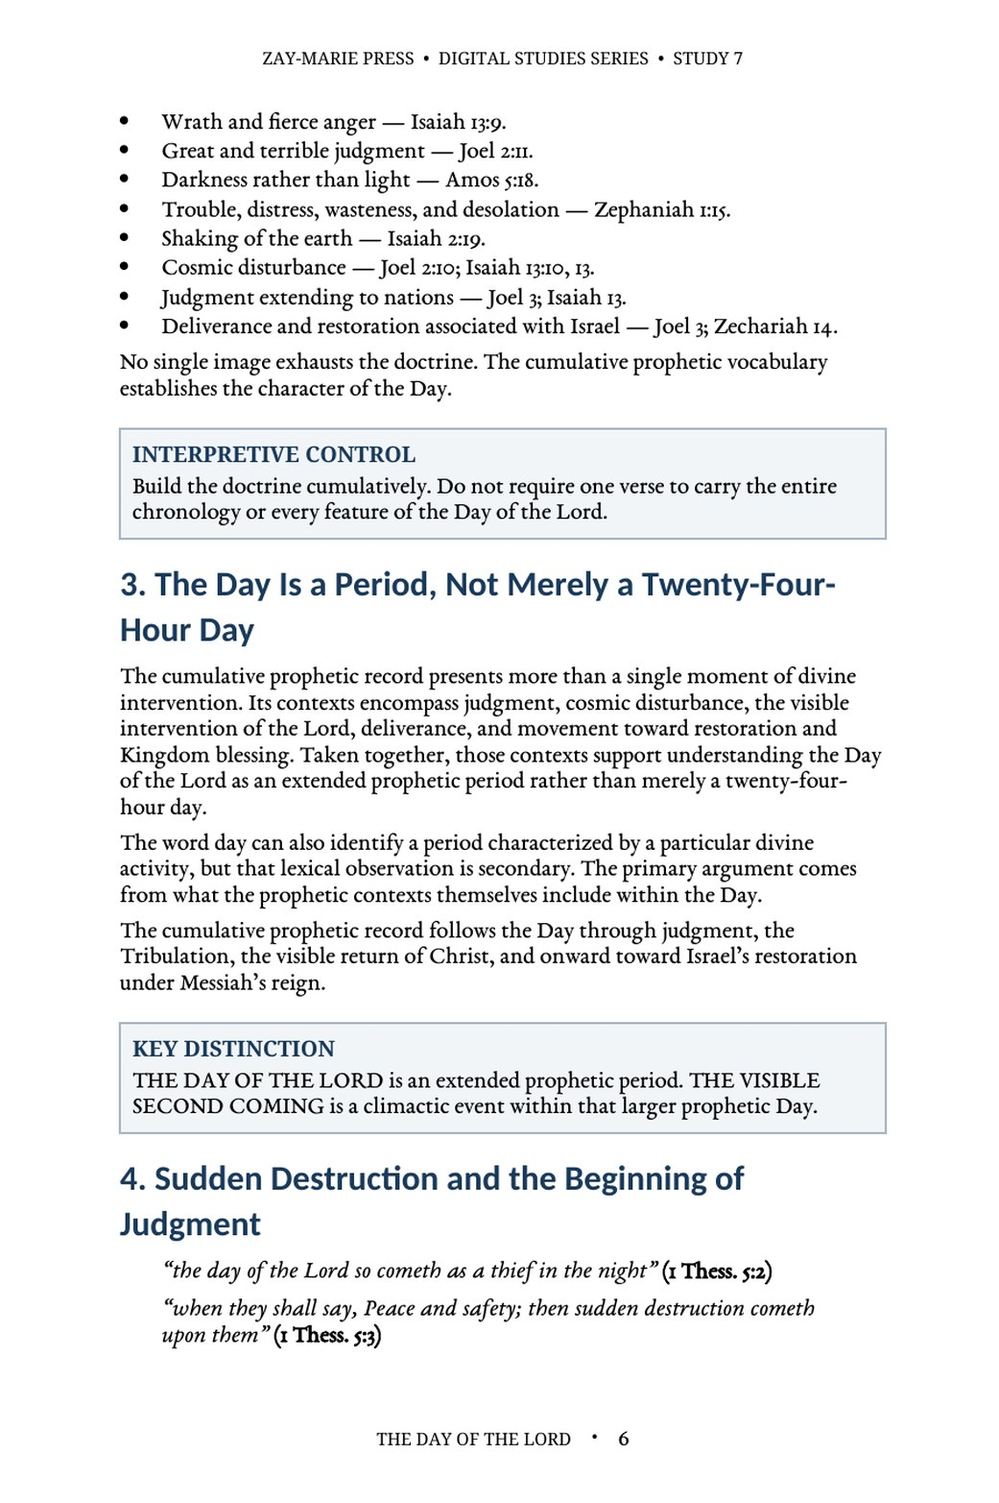
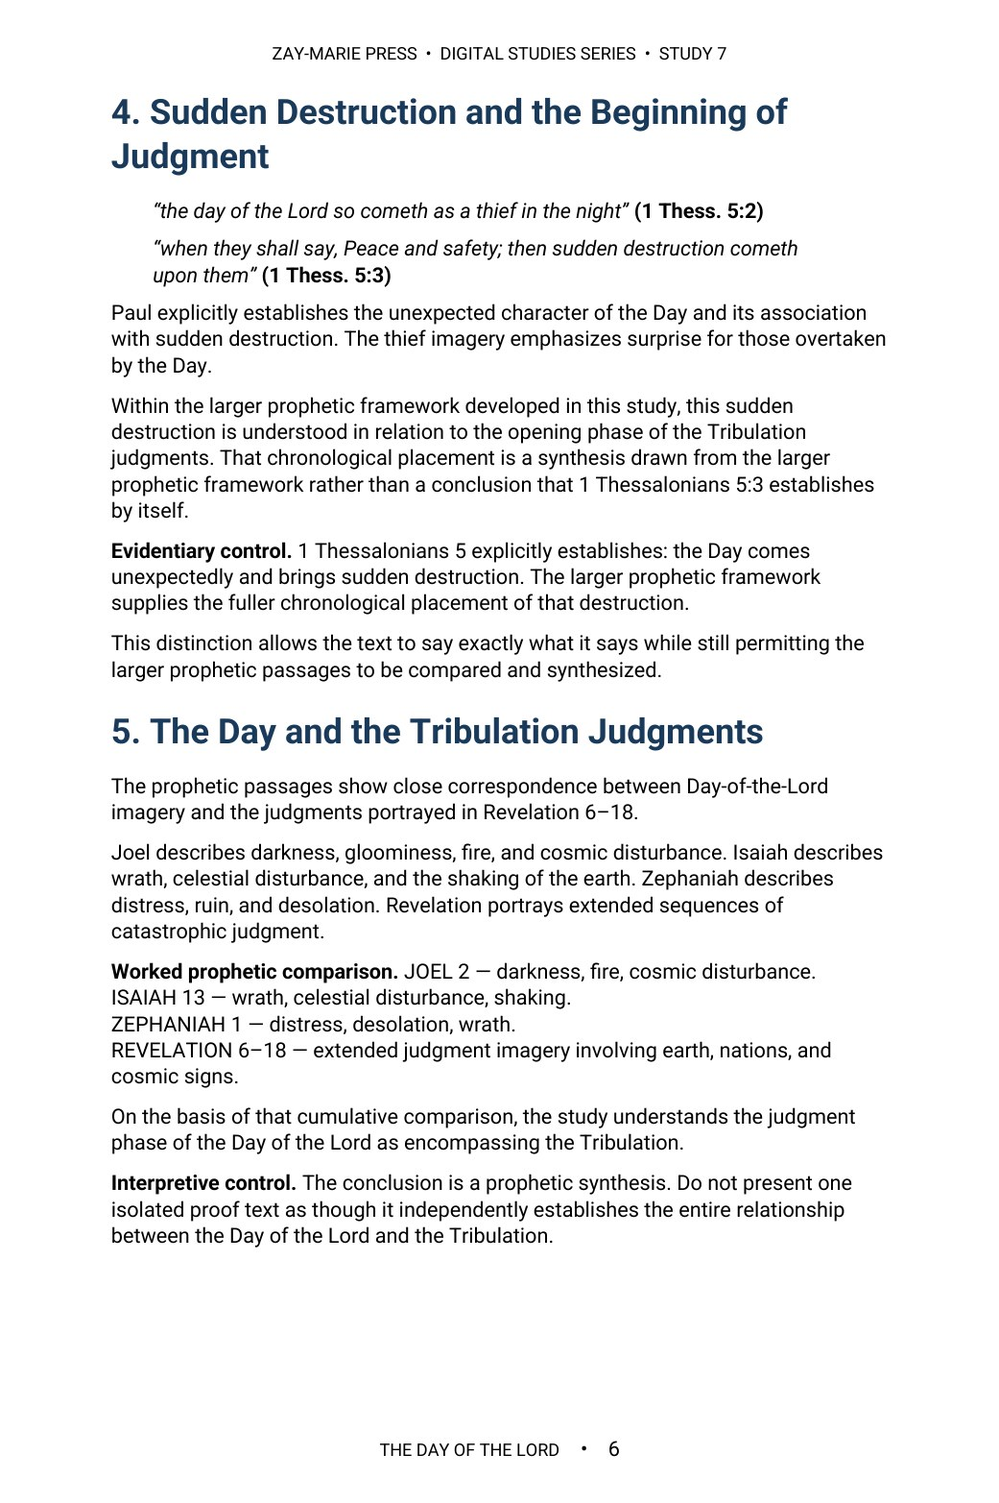
Study 7: Roboto rebuild to Master Standard v1.30; 16 pages; preview strip re-cut; tracker v1.31
Claude-Session: https://claude.ai/code/session_01TLNFW47XCW6YAMUxScR3v4

Changed region(s): [[0.0922, 0.0307, 0.8915, 0.9201], [0.3689, 0.9508, 0.5841, 0.9815], [0.8607, 0.6748, 0.8915, 0.7054]]

diff --git a/study-07-the-day-of-the-lord.html b/study-07-the-day-of-the-lord.html
@@ -14,6 +14,6 @@
 <section class="detail-section soft"><div class="wrap"><div class="eyebrow">WHAT YOU’LL STUDY</div><h2>Keep the Day and the Hope Distinct</h2><div class="study-points"><div class="study-point"><h3>The Day Begins in Prophecy</h3><p>Establish its prophetic vocabulary, purpose, and extended character.</p></div><div class="study-point"><h3>Judgment, Wrath, and Return</h3><p>Follow the Day through judgment to its visible climax in Christ’s return.</p></div><div class="study-point"><h3>Israel’s Restoration and Kingdom Hope</h3><p>See why judgment belongs within Israel’s prophetic future and restoration.</p></div><div class="study-point"><h3>Why Paul Teaches the Body About the Day</h3><p>Learn how a Pauline epistle can address a prophetic subject without redefining its setting.</p></div><div class="study-point"><h3>THEY and YOU</h3><p>Work through Paul’s contrast in 1 Thessalonians 5 between those overtaken by the Day and believers identified differently.</p></div><div class="study-point"><h3>The Body’s Gathering and Hope</h3><p>Keep 1 Thessalonians 4 distinct from the Day of the Lord in chapter 5.</p></div></div></div></section>
 <section class="detail-section cream"><div class="wrap"><div class="eyebrow">KEY SCRIPTURES</div><h2>Examine the Passages for Yourself</h2><div class="scripture-grid"><div class="scripture-card"><h3>Joel 2:1–31</h3><p>Provides the prophetic vocabulary of darkness, wrath, and the Day’s intervention.</p></div><div class="scripture-card"><h3>Isaiah 13:6–13</h3><p>Associates the Day with divine judgment and cosmic disturbance.</p></div><div class="scripture-card"><h3>Zephaniah 1:14–18</h3><p>Describes the Day as a period of wrath, distress, and devastation.</p></div><div class="scripture-card"><h3>Zechariah 14:1–9</h3><p>Connects the Day with the Lord’s visible intervention and Kingdom reign.</p></div><div class="scripture-card"><h3>1 Thessalonians 4:13–18</h3><p>Establishes the Body’s gathering to Christ and enduring relationship with Him.</p></div><div class="scripture-card"><h3>1 Thessalonians 5:1–11</h3><p>Places the Day of the Lord beside Paul’s THEY/YOU distinction and assurance concerning wrath.</p></div><div class="scripture-card"><h3>2 Thessalonians 2:1–12</h3><p>Addresses our gathering and the prophetic Day without forcing a complete chronology.</p></div><div class="scripture-card"><h3>Revelation 6–19</h3><p>Provides the broader judgment context leading toward Christ’s visible return.</p></div></div></div></section>
 <section class="detail-section"><div class="wrap"><div class="eyebrow">FROM THE STUDY</div><h2>Israel’s Prophetic Day and the Body’s Heavenly Hope</h2><div class="excerpt"><blockquote>“The Day of the Lord belongs to Israel’s prophetic future, while the Body of Christ possesses a distinct heavenly hope.”</blockquote><p>The distinction preserves both subjects: Israel’s prophetic Day of judgment, visible return, and restoration; and the Body’s gathering to Christ, enduring relationship with Him, and assurance that it is not appointed to wrath.</p></div></div></section>
-<section class="detail-section soft"><div class="wrap"><div class="eyebrow">A LOOK INSIDE</div><h2>Preview the Study Before You Purchase</h2><p class="preview-instruction">Click any page to enlarge it for reading.</p><div class="preview-grid"><div class="preview-card"><a class="preview-image-link" data-preview-lightbox href="assets/study-07-page-3.jpg"><img src="assets/study-07-page-3.jpg" alt="Study 7 interior preview — page 3, table of contents"/></a><div class="page-no">Page 3</div><h3>Table of Contents</h3><p>See the full structure of the study, from the introduction through the final synthesis.</p></div><div class="preview-card"><a class="preview-image-link" data-preview-lightbox href="assets/study-07-page-2.jpg"><img src="assets/study-07-page-2.jpg" alt="Study 7 interior preview — page 2, what you will learn"/></a><div class="page-no">Page 2</div><h3>What You Will Learn</h3><p>See the study’s goals, controls, and central question at a glance.</p></div><div class="preview-card"><a class="preview-image-link" data-preview-lightbox href="assets/study-07-page-6.jpg"><img src="assets/study-07-page-6.jpg" alt="Study 7 interior preview — page 6, the prophetic vocabulary of the Day of the Lord"/></a><div class="page-no">Page 6</div><h3>The Prophetic Vocabulary of the Day</h3><p>Gather the prophets’ own images of the Day before any conclusions are drawn.</p></div></div></div></section>
-<section class="detail-section"><div class="wrap"><div class="eyebrow">WHAT’S INCLUDED</div><h2>A Focused Study Built for<br/>Understanding and Teaching</h2><div class="includes-grid"><div class="include-item"><h3>17-Page In-Depth Biblical Study</h3><p>A careful biblical study of Israel’s prophetic Day and the Body’s distinct hope.</p></div><div class="include-item"><h3>15 Core Teaching Sections</h3><p>Follow the Day from prophetic warning through judgment, return, and restoration.</p></div><div class="include-item"><h3>THEY/YOU Worked Study</h3><p>Examine the contrast Paul draws in 1 Thessalonians 5.</p></div><div class="include-item"><h3>Prophetic Vocabulary Trace</h3><p>Compare the Scriptures that define the Day’s darkness, wrath, judgment, and restoration.</p></div><div class="include-item"><h3>18 Review Questions</h3><p>Test the study’s distinctions regarding the Day, wrath, gathering, and hope.</p></div><div class="include-item"><h3>Teaching Outline</h3><p>A ready framework for explaining the Day and the Body’s heavenly hope.</p></div><div class="include-item"><h3>Eight Guided Investigations</h3><p>Work directly from the prophets, Thessalonian letters, and judgment passages.</p></div><div class="include-item"><h3>Final Synthesis Exercise</h3><p>Write a complete explanation that keeps the Day and the hope distinct.</p></div></div></div></section>
-<section class="detail-section cream"><div class="wrap"><div class="final-buy"><div><div class="eyebrow">STUDY 7 · DIGITAL STUDY</div><h2>The Day of the Lord</h2><p>17-page digital PDF · For personal use</p></div><div class="final-offer"><div class="detail-price">$5.99</div><span class="detail-button pending" aria-disabled="true">Get the Study</span></div></div><a class="back-link" href="digital-studies.html">← Back to All Digital Studies</a></div></section><section class="study-method-course-bridge"><div class="wrap"><div class="study-method-course-panel"><div><div class="eyebrow">BUILD THE INTERPRETIVE METHOD</div><h2>Want More Than a Focused Study?</h2><p>Digital Studies examine particular biblical subjects and difficult passages. The 40-lesson Biblical Hermeneutics course teaches a complete, repeatable method for establishing meaning in context, determining proper assignment, and making responsible application.</p></div><a class="btn btn-primary" href="biblical-hermeneutics-course.html">BIBLICAL HERMENEUTICS COURSE</a></div></div></section></main><div class="preview-lightbox" id="preview-lightbox" role="dialog" aria-modal="true" aria-label="Enlarged study page preview"><button class="preview-lightbox-close" type="button" aria-label="Close enlarged preview">×</button><img src="" alt=""/><div class="preview-lightbox-hint">Scroll to read the full page · Press Esc or click outside the page to close</div></div><footer class="site-footer"><div class="wrap footer-grid"><div class="footer-about"><h3>Zay-Marie Press</h3><p class="footer-tagline"><em>Where the Bible Means What It Says.</em></p><p>Zay-Marie Press is a Christian theological publisher dedicated to producing doctrinally precise, carefully structured biblical resources that equip pastors, teachers, and serious students with clarity, depth, and Scripture-anchored truth.</p><p><a href="https://zaymariepress.com">zaymariepress.com</a><br/><a href="mailto:info@zaymariepress.com">info@zaymariepress.com</a></p></div><div class="footer-column"><h3>Explore</h3><div class="footer-links-stacked"><a href="books.html">Books</a><br/><a href="series.html">Series</a><br/><a href="biblical-hermeneutics-course.html">Course</a><br/><a href="digital-studies.html">Digital Studies</a><br/><a href="resources.html">Resources</a><br/><a href="bible-book-summaries.html">Bible Book Summaries</a><br/><a href="doctrinal-packets.html">Doctrinal Packets</a><br/><a href="historical-drift.html">Historical Drift</a><br/><a href="about.html">About</a><br/><a href="contact.html">Contact</a></div></div><div class="footer-column"><h3>Reader Support</h3><div class="footer-links-stacked"><a href="reader-support.html#faq">FAQ</a><br/><a href="reader-support.html#shipping-returns">Shipping &amp; Returns</a><br/><a href="reader-support.html#digital-downloads">Digital Downloads</a><br/><a href="reader-support.html#contact-support">Contact Support</a></div></div><div class="footer-column"><h3>Acts Overlap</h3><p><strong>Acts Overlap Theology Series</strong></p><p><em>Two Distinct Streams. One Overlap.</em></p><p><a href="series.html">Series Overview</a></p></div></div><div class="wrap footer-bottom">© 2026 Zay-Marie Press. All rights reserved.</div></footer><script src="site.js"></script><script>(function(){var box=document.getElementById("preview-lightbox"),img=box.querySelector("img"),close=box.querySelector(".preview-lightbox-close"),hint=box.querySelector(".preview-lightbox-hint"),hintTimer;function shut(){clearTimeout(hintTimer);box.classList.remove("open");hint.classList.remove("fade");document.body.style.overflow="";img.src=""}document.querySelectorAll("[data-preview-lightbox]").forEach(function(a){a.addEventListener("click",function(e){e.preventDefault();clearTimeout(hintTimer);img.src=a.getAttribute("href");img.alt=a.querySelector("img").alt;hint.classList.remove("fade");box.classList.add("open");document.body.style.overflow="hidden";box.scrollTop=0;hintTimer=setTimeout(function(){hint.classList.add("fade")},3000)})});close.addEventListener("click",shut);box.addEventListener("click",function(e){if(e.target===box)shut()});document.addEventListener("keydown",function(e){if(e.key==="Escape"&&box.classList.contains("open"))shut()})})();</script></body></html>
+<section class="detail-section soft"><div class="wrap"><div class="eyebrow">A LOOK INSIDE</div><h2>Preview the Study Before You Purchase</h2><p class="preview-instruction">Click any page to enlarge it for reading.</p><div class="preview-grid"><div class="preview-card"><a class="preview-image-link" data-preview-lightbox href="assets/study-07-page-2.jpg"><img src="assets/study-07-page-2.jpg" alt="Study 7 interior preview — page 2, table of contents"/></a><div class="page-no">Page 2</div><h3>Table of Contents</h3><p>See the full structure of the study, from the introduction through the final synthesis.</p></div><div class="preview-card"><a class="preview-image-link" data-preview-lightbox href="assets/study-07-page-3.jpg"><img src="assets/study-07-page-3.jpg" alt="Study 7 interior preview — page 3, what you will learn"/></a><div class="page-no">Page 3</div><h3>What You Will Learn</h3><p>See the study’s goals, controls, and central question at a glance.</p></div><div class="preview-card"><a class="preview-image-link" data-preview-lightbox href="assets/study-07-page-6.jpg"><img src="assets/study-07-page-6.jpg" alt="Study 7 interior preview — page 6, sudden destruction and the Tribulation judgments"/></a><div class="page-no">Page 6</div><h3>Sudden Destruction and Judgment</h3><p>Separate what 1 Thessalonians 5 states outright from what the larger prophetic record adds.</p></div></div></div></section>
+<section class="detail-section"><div class="wrap"><div class="eyebrow">WHAT’S INCLUDED</div><h2>A Focused Study Built for<br/>Understanding and Teaching</h2><div class="includes-grid"><div class="include-item"><h3>16-Page In-Depth Biblical Study</h3><p>A careful biblical study of Israel’s prophetic Day and the Body’s distinct hope.</p></div><div class="include-item"><h3>15 Core Teaching Sections</h3><p>Follow the Day from prophetic warning through judgment, return, and restoration.</p></div><div class="include-item"><h3>THEY/YOU Worked Study</h3><p>Examine the contrast Paul draws in 1 Thessalonians 5.</p></div><div class="include-item"><h3>Prophetic Vocabulary Trace</h3><p>Compare the Scriptures that define the Day’s darkness, wrath, judgment, and restoration.</p></div><div class="include-item"><h3>18 Review Questions</h3><p>Test the study’s distinctions regarding the Day, wrath, gathering, and hope.</p></div><div class="include-item"><h3>Teaching Outline</h3><p>A ready framework for explaining the Day and the Body’s heavenly hope.</p></div><div class="include-item"><h3>Eight Guided Investigations</h3><p>Work directly from the prophets, Thessalonian letters, and judgment passages.</p></div><div class="include-item"><h3>Final Synthesis Exercise</h3><p>Write a complete explanation that keeps the Day and the hope distinct.</p></div></div></div></section>
+<section class="detail-section cream"><div class="wrap"><div class="final-buy"><div><div class="eyebrow">STUDY 7 · DIGITAL STUDY</div><h2>The Day of the Lord</h2><p>16-page digital PDF · For personal use</p></div><div class="final-offer"><div class="detail-price">$5.99</div><span class="detail-button pending" aria-disabled="true">Get the Study</span></div></div><a class="back-link" href="digital-studies.html">← Back to All Digital Studies</a></div></section><section class="study-method-course-bridge"><div class="wrap"><div class="study-method-course-panel"><div><div class="eyebrow">BUILD THE INTERPRETIVE METHOD</div><h2>Want More Than a Focused Study?</h2><p>Digital Studies examine particular biblical subjects and difficult passages. The 40-lesson Biblical Hermeneutics course teaches a complete, repeatable method for establishing meaning in context, determining proper assignment, and making responsible application.</p></div><a class="btn btn-primary" href="biblical-hermeneutics-course.html">BIBLICAL HERMENEUTICS COURSE</a></div></div></section></main><div class="preview-lightbox" id="preview-lightbox" role="dialog" aria-modal="true" aria-label="Enlarged study page preview"><button class="preview-lightbox-close" type="button" aria-label="Close enlarged preview">×</button><img src="" alt=""/><div class="preview-lightbox-hint">Scroll to read the full page · Press Esc or click outside the page to close</div></div><footer class="site-footer"><div class="wrap footer-grid"><div class="footer-about"><h3>Zay-Marie Press</h3><p class="footer-tagline"><em>Where the Bible Means What It Says.</em></p><p>Zay-Marie Press is a Christian theological publisher dedicated to producing doctrinally precise, carefully structured biblical resources that equip pastors, teachers, and serious students with clarity, depth, and Scripture-anchored truth.</p><p><a href="https://zaymariepress.com">zaymariepress.com</a><br/><a href="mailto:info@zaymariepress.com">info@zaymariepress.com</a></p></div><div class="footer-column"><h3>Explore</h3><div class="footer-links-stacked"><a href="books.html">Books</a><br/><a href="series.html">Series</a><br/><a href="biblical-hermeneutics-course.html">Course</a><br/><a href="digital-studies.html">Digital Studies</a><br/><a href="resources.html">Resources</a><br/><a href="bible-book-summaries.html">Bible Book Summaries</a><br/><a href="doctrinal-packets.html">Doctrinal Packets</a><br/><a href="historical-drift.html">Historical Drift</a><br/><a href="about.html">About</a><br/><a href="contact.html">Contact</a></div></div><div class="footer-column"><h3>Reader Support</h3><div class="footer-links-stacked"><a href="reader-support.html#faq">FAQ</a><br/><a href="reader-support.html#shipping-returns">Shipping &amp; Returns</a><br/><a href="reader-support.html#digital-downloads">Digital Downloads</a><br/><a href="reader-support.html#contact-support">Contact Support</a></div></div><div class="footer-column"><h3>Acts Overlap</h3><p><strong>Acts Overlap Theology Series</strong></p><p><em>Two Distinct Streams. One Overlap.</em></p><p><a href="series.html">Series Overview</a></p></div></div><div class="wrap footer-bottom">© 2026 Zay-Marie Press. All rights reserved.</div></footer><script src="site.js"></script><script>(function(){var box=document.getElementById("preview-lightbox"),img=box.querySelector("img"),close=box.querySelector(".preview-lightbox-close"),hint=box.querySelector(".preview-lightbox-hint"),hintTimer;function shut(){clearTimeout(hintTimer);box.classList.remove("open");hint.classList.remove("fade");document.body.style.overflow="";img.src=""}document.querySelectorAll("[data-preview-lightbox]").forEach(function(a){a.addEventListener("click",function(e){e.preventDefault();clearTimeout(hintTimer);img.src=a.getAttribute("href");img.alt=a.querySelector("img").alt;hint.classList.remove("fade");box.classList.add("open");document.body.style.overflow="hidden";box.scrollTop=0;hintTimer=setTimeout(function(){hint.classList.add("fade")},3000)})});close.addEventListener("click",shut);box.addEventListener("click",function(e){if(e.target===box)shut()});document.addEventListener("keydown",function(e){if(e.key==="Escape"&&box.classList.contains("open"))shut()})})();</script></body></html>

diff --git a/site.js b/site.js
@@ -62,7 +62,7 @@ const resourceModal=document.querySelector('#resource-modal'), resourceModalTitl
 if(resourceModal&&resourceModalTriggers.length){const closeResourceModal=()=>{resourceModal.hidden=true;document.body.classList.remove('resource-modal-open');lastResourceTrigger?.focus();};resourceModalTriggers.forEach(trigger=>trigger.addEventListener('click',()=>{lastResourceTrigger=trigger;if(resourceModalTitle)resourceModalTitle.textContent=trigger.dataset.title||'Resource';if(resourceModalDescription)resourceModalDescription.textContent=trigger.dataset.description||'';if(resourceModalLink){resourceModalLink.href=trigger.dataset.href||'#';resourceModalLink.textContent=trigger.dataset.linkText||'OPEN RESOURCE';}resourceModal.hidden=false;document.body.classList.add('resource-modal-open');resourceModalClose?.focus();}));resourceModalClose?.addEventListener('click',closeResourceModal);resourceModal.addEventListener('click',e=>{if(e.target===resourceModal)closeResourceModal();});document.addEventListener('keydown',e=>{if(e.key==='Escape'&&!resourceModal.hidden)closeResourceModal();});}
 
 /* Display the verified final-PDF page count at the primary purchase decision point. */
-const digitalStudyPageCounts={1:14,2:14,3:18,4:18,5:16,6:16,7:17,8:15,9:16,10:23,11:13,12:13,13:15,14:13,15:13,16:14,17:14,18:13,19:13,20:13,21:14,22:15,23:15,24:13,25:13,26:17,27:15,28:14,29:13,30:17,31:17,32:14,33:15,34:16,35:15,36:15,37:15,38:16,39:16,40:15,41:15,42:15,43:17,44:15,45:15,46:15,47:16,48:15,49:14,50:14,51:15,52:15,53:15,54:15,55:16,56:16,61:16,62:16,63:16,64:16,65:16,66:16,67:16,68:16,69:16,70:16,71:16};
+const digitalStudyPageCounts={1:14,2:14,3:18,4:18,5:16,6:16,7:16,8:15,9:16,10:23,11:13,12:13,13:15,14:13,15:13,16:14,17:14,18:13,19:13,20:13,21:14,22:15,23:15,24:13,25:13,26:17,27:15,28:14,29:13,30:17,31:17,32:14,33:15,34:16,35:15,36:15,37:15,38:16,39:16,40:15,41:15,42:15,43:17,44:15,45:15,46:15,47:16,48:15,49:14,50:14,51:15,52:15,53:15,54:15,55:16,56:16,61:16,62:16,63:16,64:16,65:16,66:16,67:16,68:16,69:16,70:16,71:16};
 const digitalStudyMatch=window.location.pathname.match(/\/study-(\d+)-/i);
 const digitalStudyFormat=document.querySelector('.detail-hero .detail-format');
 if(digitalStudyMatch&&digitalStudyFormat){const studyNumber=Number(digitalStudyMatch[1]),pageCount=digitalStudyPageCounts[studyNumber];if(pageCount)digitalStudyFormat.textContent=`Digital PDF · ${pageCount} Pages`;}

diff --git a/controlling-documents/Digital_Studies_PAM_Audit_v1.31.md b/controlling-documents/Digital_Studies_PAM_Audit_v1.31.md
@@ -1,4 +1,4 @@
-# Digital Studies vs. PAM Audit — v1.30
+# Digital Studies vs. PAM Audit — v1.31
 
 Working tracker and instructions for checking the Digital Studies against the Program Assignment Manual (PAM), §XIX of `Framework_Control_Document_Acts_Overlap.docx`, including its "Section 4 — Publisher Rulings". Same `_vX.Y` convention as the other controlling documents: update the status table and changelog as the audit proceeds, bump the version, and rename the file to match.
 
@@ -257,3 +257,4 @@ Study 15 PDF not yet supplied. Typography: none of Studies 2, 3, 6, 8 is in EB G
 - v1.28 (2026-09-30): Study 5 approved by the publisher ("i approve study 5") and pushed: Roboto rebuild to Master Standard v1.28/v1.29, 16 pages (cover plus 15 interior), five boxed callouts (Study Goal, Interpretive Control in the Introduction, Controlling Definition, Acts Overlap Control, Final Control; the other 17 became body paragraphs with a bold run-in lead), TOC at body-paragraph spacing, review questions 1-15, copyright in the end imprint, margins kept near the supplied 0.67 in. Website: preview strip kept at three cards but re-ordered and re-cut from the rebuilt PDF (Page 2 Table of Contents, Page 3 What You Will Learn, Page 8 Hope, Gathering, and Transformation; images at 1041 x 1565); old unreferenced images for pages 11 and 16 removed; page count unchanged at 16. Not checked live (Cloudflare Access sign-in); checked locally at 1280, 390, 360 and 320 px. The publisher swaps the purchasable PDF himself.
 - v1.29 (2026-09-30): Master Standard v1.30 (publisher directive): Heading 1 is 12 pt space-before and 8 pt space-after, replacing 14 pt before; chosen after a side-by-side of Study 6 page 5 at 12 and 14 pt. Applies from Study 6 forward; the publisher said not to go back and fix earlier studies, so Studies 1-5 and 9 stay at 14 pt and are not reopened for it. Heading 2 (10/5) and body (6 pt after, 1.08) unchanged. Study 6 rebuilt in Roboto to v1.28/v1.29/v1.30 as a review copy (16 pages, five boxed callouts, TOC at body spacing, Heading 1 at 12 pt, stale hand-set spacing from the source stripped): awaiting the publisher's approval, not pushed. Separately, the spacing-corrected re-cuts of Studies 3, 4 and 5 (stale source spacing stripped; 18/18/16 pages) were delivered for review; the publisher said the studies are good as they are, so they are not pushed unless he says so.
 - v1.30 (2026-09-30): Study 6 approved by the publisher ("i approve") and pushed: Roboto rebuild to Master Standard v1.28/v1.29/v1.30, 16 pages (cover plus 15 interior), five boxed callouts (Study Goal, Interpretive Control in the Introduction, Controlling Definition, Acts Overlap Control, Final Control; the others became body paragraphs with a bold run-in lead), TOC first at body-paragraph spacing, Heading 1 at 12 pt before / 8 pt after, review questions 1-18, copyright in the end imprint. PAM review: clear. Website: preview strip reduced from four cards to three (Page 2 Table of Contents, Page 3 What You Will Learn, Page 6 Revealed Through Paul; images at 1041 x 1565); old page 10 and 13 images removed; page count unchanged at 16 in site.js. Checked locally at 1280, 390, 360 and 320 px (no overflow; only the two expected empty lightbox image entries). Not checked live (Cloudflare Access sign-in). The publisher swaps the purchasable PDF himself. Next file needed: Study 7 DOCX.
+- v1.31 (2026-09-30): Study 7 (The Day of the Lord) read in full against the PAM and Framework: clear (Day of the Lord kept in Israel's Prophecy Program; 1 Thess 4 treated as the Body's gathering, chapter 5 as the Day; 2 Thess 2:2 left unresolved; no use of Matthew 24 or Luke 17 as rapture texts; Thessalonians not assigned by the PAM). Approved by the publisher ("i approve") and pushed: Roboto rebuild to Master Standard v1.28/v1.29/v1.30, 16 pages (cover plus 15 interior; was 17), five boxed callouts (Study Goal, Interpretive Control in the Introduction, Programmatic Control, Hermeneutical Control, Final Control; the others became body paragraphs with a bold run-in lead), TOC first at body spacing, Heading 1 at 12 pt, review questions 1-18, copyright in the end imprint. Website: preview strip kept at three cards but re-cut (Page 2 Table of Contents, Page 3 What You Will Learn, Page 6 Sudden Destruction and Judgment; page 5 rejected because it opens with the Programmatic Control callout, which states the conclusion); old page 9, 12 and 13 images removed; page count 17 to 16 in site.js, the What's Included card and the hero line. Checked locally at 1280, 390, 360 and 320 px; not checked live (Cloudflare Access sign-in). The publisher swaps the purchasable PDF himself. Next file needed: Study 8 DOCX.
